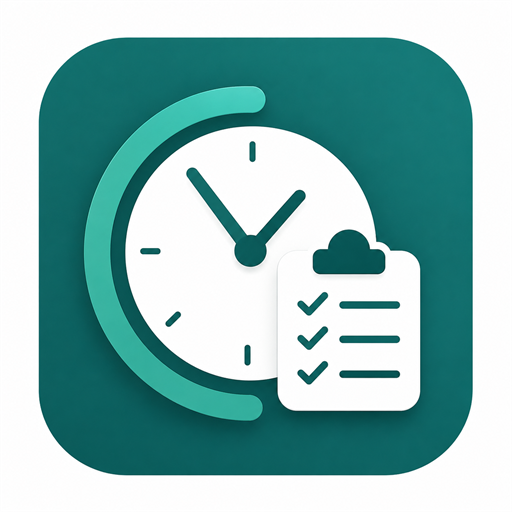
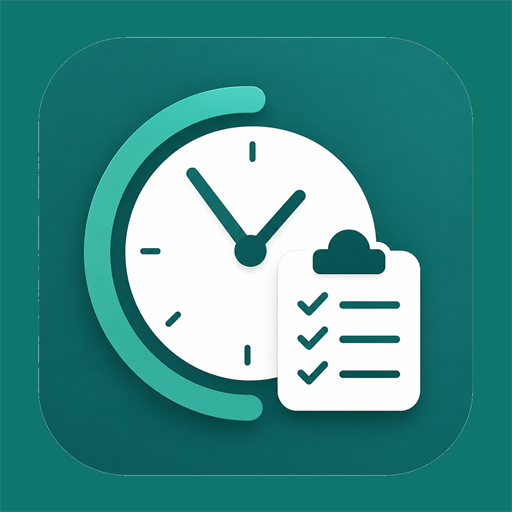
Add files via upload

diff --git a/sw.js b/sw.js
@@ -1,4 +1,4 @@
-const cacheName = "akkordzeit-v16";
+const cacheName = "akkordzeit-v17";
 const appFiles = [
   "./",
   "./index.html",

diff --git a/README.md b/README.md
@@ -22,6 +22,7 @@ Neben Auftragsnr. und Identnr. gibt es jeweils einen Scan-Button. Wenn Kamera un
 Anmerkungen gespeicherter Einträge können über den Button `Bearbeiten` nachträglich korrigiert werden.
 
 Als Startbildschirm-Symbol verwendet die App `icon-192.png` und `icon-512.png`. Für iOS wird zusätzlich `apple-touch-icon.png` verwendet.
+Der äußere Symbolhintergrund ist vollständig im App-Grün ausgefüllt, damit auf dem Startbildschirm keine weißen Ränder erscheinen.
 
 Über den Button `Monatsübersicht` öffnet sich eine zweite Seite mit gestapelten Säulen für alle Arbeitstage. Stückzeit, Rüstzeit und D-Stunden werden farblich getrennt dargestellt; Monat und Jahr sind auswählbar.
 